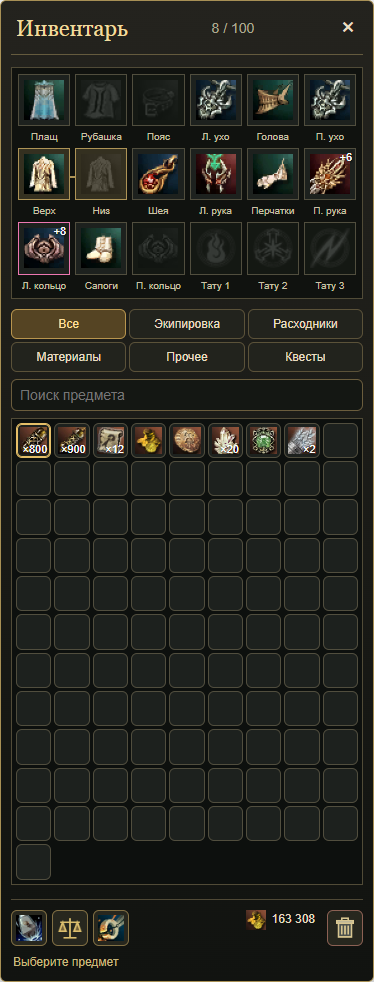
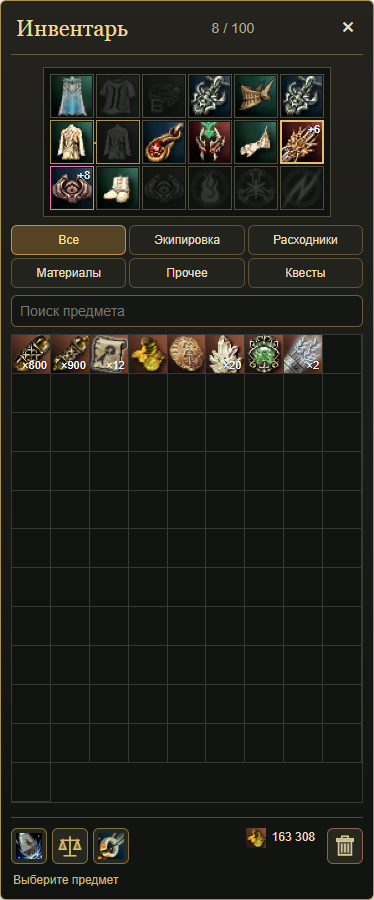
Match inventory preview to the compact bordered reference grid

Changed region(s): [[0.0294, 0.0, 0.9706, 0.9956]]

diff --git a/docs/inventory-reference-preview.html b/docs/inventory-reference-preview.html
@@ -6,6 +6,9 @@
 #l2-inventory-preview .wallet{margin-left:auto}#l2-inventory-preview .discard{flex-shrink:0;margin-left:4px;border-color:#8c6154}#l2-inventory-preview .discard canvas{display:block;width:100%;height:100%}#l2-inventory-preview .gear .armor-upper,#l2-inventory-preview .gear .armor-lower{border-color:#ad9356;background:#343020}#l2-inventory-preview .gear .armor-upper::after{content:'';position:absolute;right:-6px;top:27px;width:6px;height:2px;background:#ad9356;z-index:1}
 #l2-inventory-preview footer{margin-top:14px}#l2-inventory-preview .bag{grid-template-columns:repeat(10,minmax(0,1fr))}#l2-inventory-preview .gear-slot{display:grid;gap:4px;justify-items:center;min-width:0}#l2-inventory-preview .gear .slot{height:auto;width:100%;aspect-ratio:1;justify-content:center;border-radius:0}#l2-inventory-preview .gear .slot img{width:40px;height:40px}#l2-inventory-preview .gear-slot .slot-label{font:10px/1.3 Arial,sans-serif;color:#c9c2a7;white-space:nowrap}#l2-inventory-preview .actions canvas{display:block;width:100%;height:100%}#l2-inventory-preview .item-dialog{background:#171813;color:#e9dec2;border:1px solid #a89055;border-radius:6px;padding:16px;width:min(360px,calc(100% - 24px));max-height:85vh;overflow:auto}#l2-inventory-preview .item-dialog::backdrop{background:#0009}#l2-inventory-preview .dialog-item{display:flex;gap:12px;margin-top:16px;align-items:flex-start}#l2-inventory-preview .dialog-item img{width:52px;height:52px;object-fit:contain}#l2-inventory-preview .dialog-item p,#l2-inventory-preview .confirm-text{font-size:13px;line-height:1.5}#l2-inventory-preview .dialog-actions{display:flex;gap:8px;margin-top:16px}#l2-inventory-preview .dialog-actions button{flex:1;border:1px solid #827044;border-radius:6px;background:#2e2c20;min-height:40px;padding:8px}#l2-inventory-preview [data-confirm]{background:#594422}
 @media(max-width:560px){#l2-inventory-preview .bag{grid-template-columns:repeat(9,minmax(0,1fr))}#l2-inventory-preview .gear{grid-template-columns:repeat(6,minmax(0,1fr))}}@media(max-width:350px){#l2-inventory-preview .gear{grid-template-columns:repeat(3,minmax(0,1fr));width:174px;justify-self:center}}
+#l2-inventory-preview .layout{grid-template-columns:152px minmax(0,1fr);gap:8px}#l2-inventory-preview .gear{grid-template-columns:repeat(3,44px);gap:2px;width:max-content;padding:6px}#l2-inventory-preview .gear-slot{gap:0}#l2-inventory-preview .gear .slot{width:44px;height:44px;padding:1px;aspect-ratio:1}#l2-inventory-preview .gear .slot img{width:40px;height:40px}#l2-inventory-preview .bag{gap:0;padding:0}#l2-inventory-preview .bag .slot{border-radius:0;border-width:0 1px 1px 0;padding:1px}#l2-inventory-preview .gear .armor-upper::after{right:-3px;width:3px;top:21px}
+@media(max-width:560px){#l2-inventory-preview .layout{grid-template-columns:1fr}#l2-inventory-preview .gear{grid-template-columns:repeat(6,44px);justify-self:center}}@media(max-width:350px){#l2-inventory-preview .gear{grid-template-columns:repeat(3,44px)}}
+#l2-inventory-preview .bag{background:#10130f;border-color:#343a31}#l2-inventory-preview .bag .slot{background:transparent;border-color:#343a31;padding:0}#l2-inventory-preview .gear .slot{background:transparent}#l2-inventory-preview .bag .slot.active{border-color:#e5bf68}
 </style>
 <section class="window" aria-label="Инвентарь персонажа">
 <header><h2>Инвентарь</h2><span class="muted" data-count>18 / 100</span><button class="close" aria-label="Закрыть">×</button></header>
@@ -45,7 +48,7 @@ const img=key=>art[key];
 function slot(item,index,label,empty=false){const b=document.createElement('button');b.type='button';b.className='slot '+(item[5]||'')+(empty?' empty':'')+(selected===index&&!empty?' active':'');b.setAttribute('aria-label',label||item[0]);b.setAttribute('aria-pressed',String(selected===index&&!empty));b.dataset.tooltip=label||item[0];b.innerHTML='<img alt="" src="'+img(item[1])+'">'+(!empty&&item[4]?'<span>'+item[4]+'</span>':'');b.onclick=()=>{if(empty)return;selected=index;render();openItem();};return b;}
 function render(){
 root.querySelector('nav').replaceChildren(...cats.map(c=>{const b=document.createElement('button');b.textContent=c;b.setAttribute('aria-selected',String(c===category));b.onclick=()=>{category=c;render();};return b;}));
-root.querySelector('.gear').replaceChildren(...gear.map(([label,i,key])=>{const empty=i==null;const item=empty?[label,key]:items[i];const b=slot(item,i,label+': '+(empty?(label==='Низ'?'Занят цельной бронёй':'Слот свободен'):item[0]),empty);const caption=document.createElement('small');caption.className='slot-label';caption.textContent=label;const cell=document.createElement('div');cell.className='gear-slot';cell.append(b,caption);if(label==='Верх')b.classList.add('armor-upper');if(label==='Низ')b.classList.add('armor-lower');return cell;}));
+root.querySelector('.gear').replaceChildren(...gear.map(([label,i,key])=>{const empty=i==null;const item=empty?[label,key]:items[i];const b=slot(item,i,label+': '+(empty?(label==='Низ'?'Занят цельной бронёй':'Слот свободен'):item[0]),empty);const cell=document.createElement('div');cell.className='gear-slot';cell.append(b);if(label==='Верх')b.classList.add('armor-upper');if(label==='Низ')b.classList.add('armor-lower');return cell;}));
 const filtered=items.map((it,i)=>[it,i]).filter(([it,i])=>!equipped.has(i)&&(category==='Все'||it[2]===category)&&it[0].toLowerCase().includes(search.toLowerCase()));
 const cells=filtered.map(([it,i])=>slot(it,i));while(cells.length<100){const b=document.createElement('div');b.className='slot';b.setAttribute('aria-hidden','true');cells.push(b);}root.querySelector('.bag').replaceChildren(...cells);
 root.querySelector('[data-count]').textContent=(items.length-equipped.size)+' / 100';

diff --git a/docs/inventory-party-2026-10-12.md b/docs/inventory-party-2026-10-12.md
@@ -15,3 +15,5 @@
 Кнопки макета: Кристаллизация, Аукцион, Крафт слева; Выбросить отдельно справа снизу. Верх и низ брони стоят рядом и соединены общей подсветкой занятого комплекта. Проверено на 320, 390 и 680 px.
 
 Обновление макета: подтверждения кристаллизации и выброса; аукцион обозначен весами. AA и нижнее описание убраны, сведения о предмете открываются в общем попапе. Плащ, рубашка и пояс стоят в одной строке; руки по краям одной строки. Клетки сумки уменьшены примерно на треть, надетые иконки увеличены с 36 до 40 px; клетки экипировки квадратные. Проверены подтверждение, отмена, открытие и закрытие описания, геометрия и отсутствие переполнения на 320/390/680 px.
+
+Сетка приведена к референсу: видимые подписи слотов убраны, доступные названия сохранены. Экипировка: фиксированные квадраты 44 px с промежутком 2 px. Сумка: единый тёмный фон, тонкие границы соседних ячеек, без зазоров, скруглений и внутренних отступов. Проверено на трёх ширинах.
